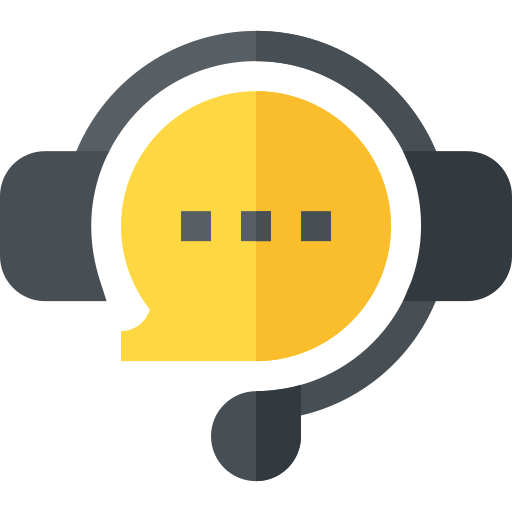
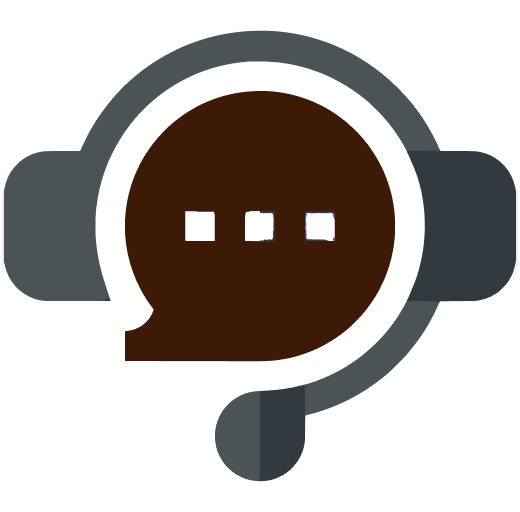
Updated live-chat.png image and modified CSS classes and SVG tags in index.html

diff --git a/public/index.html b/public/index.html
@@ -161,7 +161,7 @@
           />
           <button
             id="send-button"
-            class="bg-amber-600 text-white px-4 py-2 rounded-r-md hover:bg-amber-700 transition duration-300"
+            class="bg-footer text-white px-4 py-2 rounded-r-md hover:bg-amber-700 transition duration-300"
           >
             Send
           </button>
@@ -901,7 +901,8 @@
                   clip-rule="evenodd"
                   d="M5.49609 8.17421C5.49609 4.65925 8.93668 1.81641 13.1907 1.81641C17.4447 1.81641 20.8853 4.65925 20.8853 8.17421C20.8853 11.9616 16.0267 17.1841 14.0371 19.1732C13.5974 19.6092 12.795 19.6092 12.3553 19.1732C10.3547 17.1841 5.49609 11.9616 5.49609 8.17421ZM10.4426 8.17421C10.4426 9.42761 11.6738 10.4449 13.1907 10.4449C14.7076 10.4449 15.9388 9.42761 15.9388 8.17421C15.9388 6.92081 14.7076 5.90357 13.1907 5.90357C11.6738 5.90357 10.4426 6.92081 10.4426 8.17421Z"
                   fill="white"
-                /></svg><span class="flex text-white"
+                /></svg
+              ><span class="flex text-white"
                 >Aurora Home Salinas 1, Bacoor, Cavity City</span
               >
             </div>
@@ -919,7 +920,8 @@
                   clip-rule="evenodd"
                   d="M19.3487 14.846L16.8367 14.5781C16.2335 14.5135 15.6401 14.7074 15.2148 15.1046L13.3951 16.8039C10.5963 15.474 8.3019 13.3405 6.87778 10.7176L8.70738 9.009C9.13264 8.61186 9.34032 8.05772 9.27109 7.49434L8.98429 5.16694C8.86561 4.23414 8.02499 3.53223 7.01623 3.53223H5.30531C4.18777 3.53223 3.25814 4.40038 3.32736 5.44402C3.85152 13.3313 10.6062 19.63 19.0421 20.1195C20.1597 20.1842 21.0893 19.316 21.0893 18.2724V16.6746C21.0992 15.7418 20.3476 14.9568 19.3487 14.846Z"
                   fill="white"
-                /></svg><span class="text-white mr-4">(+63) 908-729-012</span>
+                /></svg
+              ><span class="text-white mr-4">(+63) 908-729-012</span>
 
               <svg
                 width="29"
@@ -933,7 +935,8 @@
                   clip-rule="evenodd"
                   d="M8.97291 3.03882H20.7537C21.4017 3.03882 21.9318 3.45442 21.9318 3.96239V5.80953C21.9318 6.31749 21.4017 6.7331 20.7537 6.7331H8.97291C8.32497 6.7331 7.79483 6.31749 7.79483 5.80953V3.96239C7.79483 3.45442 8.32497 3.03882 8.97291 3.03882ZM6.61676 7.65667H23.1099C25.0655 7.65667 26.6441 8.89425 26.6441 10.4274V14.1217C26.6441 15.1376 25.5839 15.9688 24.288 15.9688H21.9318V17.8159C21.9318 18.8319 20.8715 19.6631 19.5756 19.6631H10.151C8.85511 19.6631 7.79484 18.8319 7.79484 17.8159V15.9688H5.43868C4.14279 15.9688 3.08252 15.1376 3.08252 14.1217V10.4274C3.08252 8.89425 4.66115 7.65667 6.61676 7.65667ZM11.3287 17.816H18.3972C19.0452 17.816 19.5753 17.4004 19.5753 16.8924V13.1981H10.1506V16.8924C10.1506 17.4004 10.6808 17.816 11.3287 17.816ZM23.1095 11.3509C22.4616 11.3509 21.9315 10.9353 21.9315 10.4274C21.9315 9.91939 22.4616 9.50378 23.1095 9.50378C23.7575 9.50378 24.2876 9.91939 24.2876 10.4274C24.2876 10.9353 23.7575 11.3509 23.1095 11.3509Z"
                   fill="white"
-                /></svg><span class="text-white">(+63) 908-729-012</span>
+                /></svg
+              ><span class="text-white">(+63) 908-729-012</span>
             </div>
 
             <div
